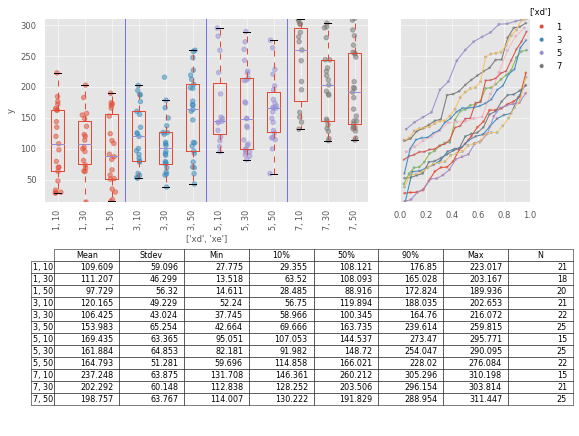
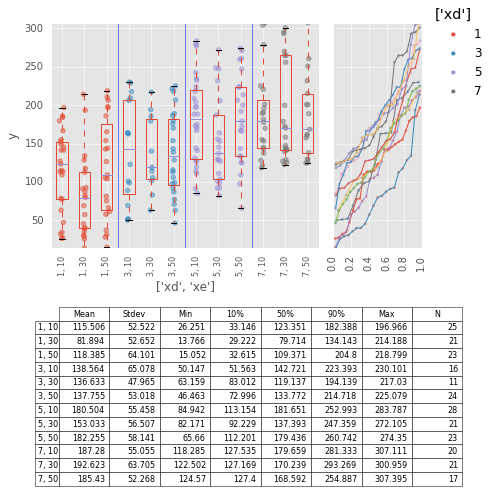
Updating readme to latest rev

diff --git a/README.md b/README.md
@@ -86,56 +86,56 @@ df.head()
       <th>0</th>
       <td>0.000000</td>
       <td>0.000000</td>
-      <td>3</td>
+      <td>5</td>
       <td>50</td>
       <td>0.4</td>
-      <td>13.390127</td>
-      <td>38.537383</td>
-      <td>51.050000</td>
+      <td>-30.149366</td>
+      <td>65.659545</td>
+      <td>85.050000</td>
     </tr>
     <tr>
       <th>1</th>
       <td>0.401606</td>
       <td>0.161288</td>
-      <td>1</td>
-      <td>10</td>
-      <td>0.1</td>
-      <td>38.944329</td>
-      <td>4.026117</td>
-      <td>17.413219</td>
+      <td>7</td>
+      <td>50</td>
+      <td>0.4</td>
+      <td>2.897044</td>
+      <td>125.145445</td>
+      <td>119.453219</td>
     </tr>
     <tr>
       <th>2</th>
       <td>0.803213</td>
       <td>0.645151</td>
-      <td>1</td>
-      <td>50</td>
+      <td>7</td>
+      <td>10</td>
       <td>0.4</td>
-      <td>-7.227282</td>
-      <td>36.135362</td>
-      <td>17.859664</td>
+      <td>1.325446</td>
+      <td>128.196008</td>
+      <td>119.819664</td>
     </tr>
     <tr>
       <th>3</th>
       <td>1.204819</td>
       <td>1.451589</td>
       <td>7</td>
-      <td>30</td>
-      <td>0.1</td>
-      <td>13.180921</td>
-      <td>121.067183</td>
-      <td>120.249335</td>
+      <td>10</td>
+      <td>0.4</td>
+      <td>-4.849546</td>
+      <td>143.351950</td>
+      <td>120.229335</td>
     </tr>
     <tr>
       <th>4</th>
       <td>1.606426</td>
       <td>2.580604</td>
-      <td>1</td>
-      <td>30</td>
-      <td>0.4</td>
-      <td>6.480724</td>
-      <td>14.221960</td>
-      <td>18.662232</td>
+      <td>5</td>
+      <td>10</td>
+      <td>0.1</td>
+      <td>-10.313698</td>
+      <td>84.942284</td>
+      <td>86.642232</td>
     </tr>
   </tbody>
 </table>
@@ -187,7 +187,7 @@ jp.cumprob('y', df, legend='xd', marker='D')
 
 
 ```python
-jp.varchart(['xd', 'xe'], 'y', data=df, legend=['xd'], cumprob=True, figsize=(9,6))
+jp.varchart(['xd', 'xe'], 'y', data=df, legend=['xd'], cumprob=True, figsize=(12,6))
 ```
 
 
@@ -202,7 +202,8 @@ Lets look at the data with a boxplot to see if there is any difference between t
 
 
 ```python
-jp.boxplot(x='xd', y='y', data=df, legend='xd', cumprob=False)
+fig = jp.boxplot(x='xd', y='y', data=df, legend='xd', cumprob=True)
+fig
 ```
 
 
@@ -266,6 +267,20 @@ jp.scatter(x='xc2', y='y', data=df, legend='xd', fit='smooth', fitparams={'s': 1
 
 
 
+Contour plots can be created as well:
+
+
+```python
+jp.contour(x='xc2', y='xc', z='y', data=df, cmap='YlGnBu')
+```
+
+
+
+
+![png](README_files/README_20_0.png)
+
+
+
 ___
 ### Modeling  
 #### Ordinary Least Squares
@@ -282,7 +297,7 @@ jm.fit(model, data=df, sample_rate=.8, model_type='ols');
 ```
 
 
-![png](README_files/README_20_0.png)
+![png](README_files/README_22_0.png)
 
 
 ___
@@ -307,7 +322,7 @@ jm.fit(model, data=dfo, sample_rate=.8, model_type='ols');
 ```
 
 
-![png](README_files/README_24_0.png)
+![png](README_files/README_26_0.png)
 
 
 Employing the robust linear model, we can minimize the influence of the outliers, and get better coefficient predictions.
@@ -319,7 +334,7 @@ jm.fit(model, data=dfo, sample_rate=.8, model_type='rlm');
 ```
 
 
-![png](README_files/README_26_0.png)
+![png](README_files/README_28_0.png)
 
 
 Our parameter estimates using the robust linear model are much closer to the truth, than using the OLS.
@@ -334,13 +349,8 @@ jm.check_estimates(model, data=df, sample_rate=.8, model_type='ols', iterations=
 ```
 
 
-![png](README_files/README_29_0.png)
+![png](README_files/README_31_0.png)
 
-
-
-```python
-
-```
 
 
 ```python
